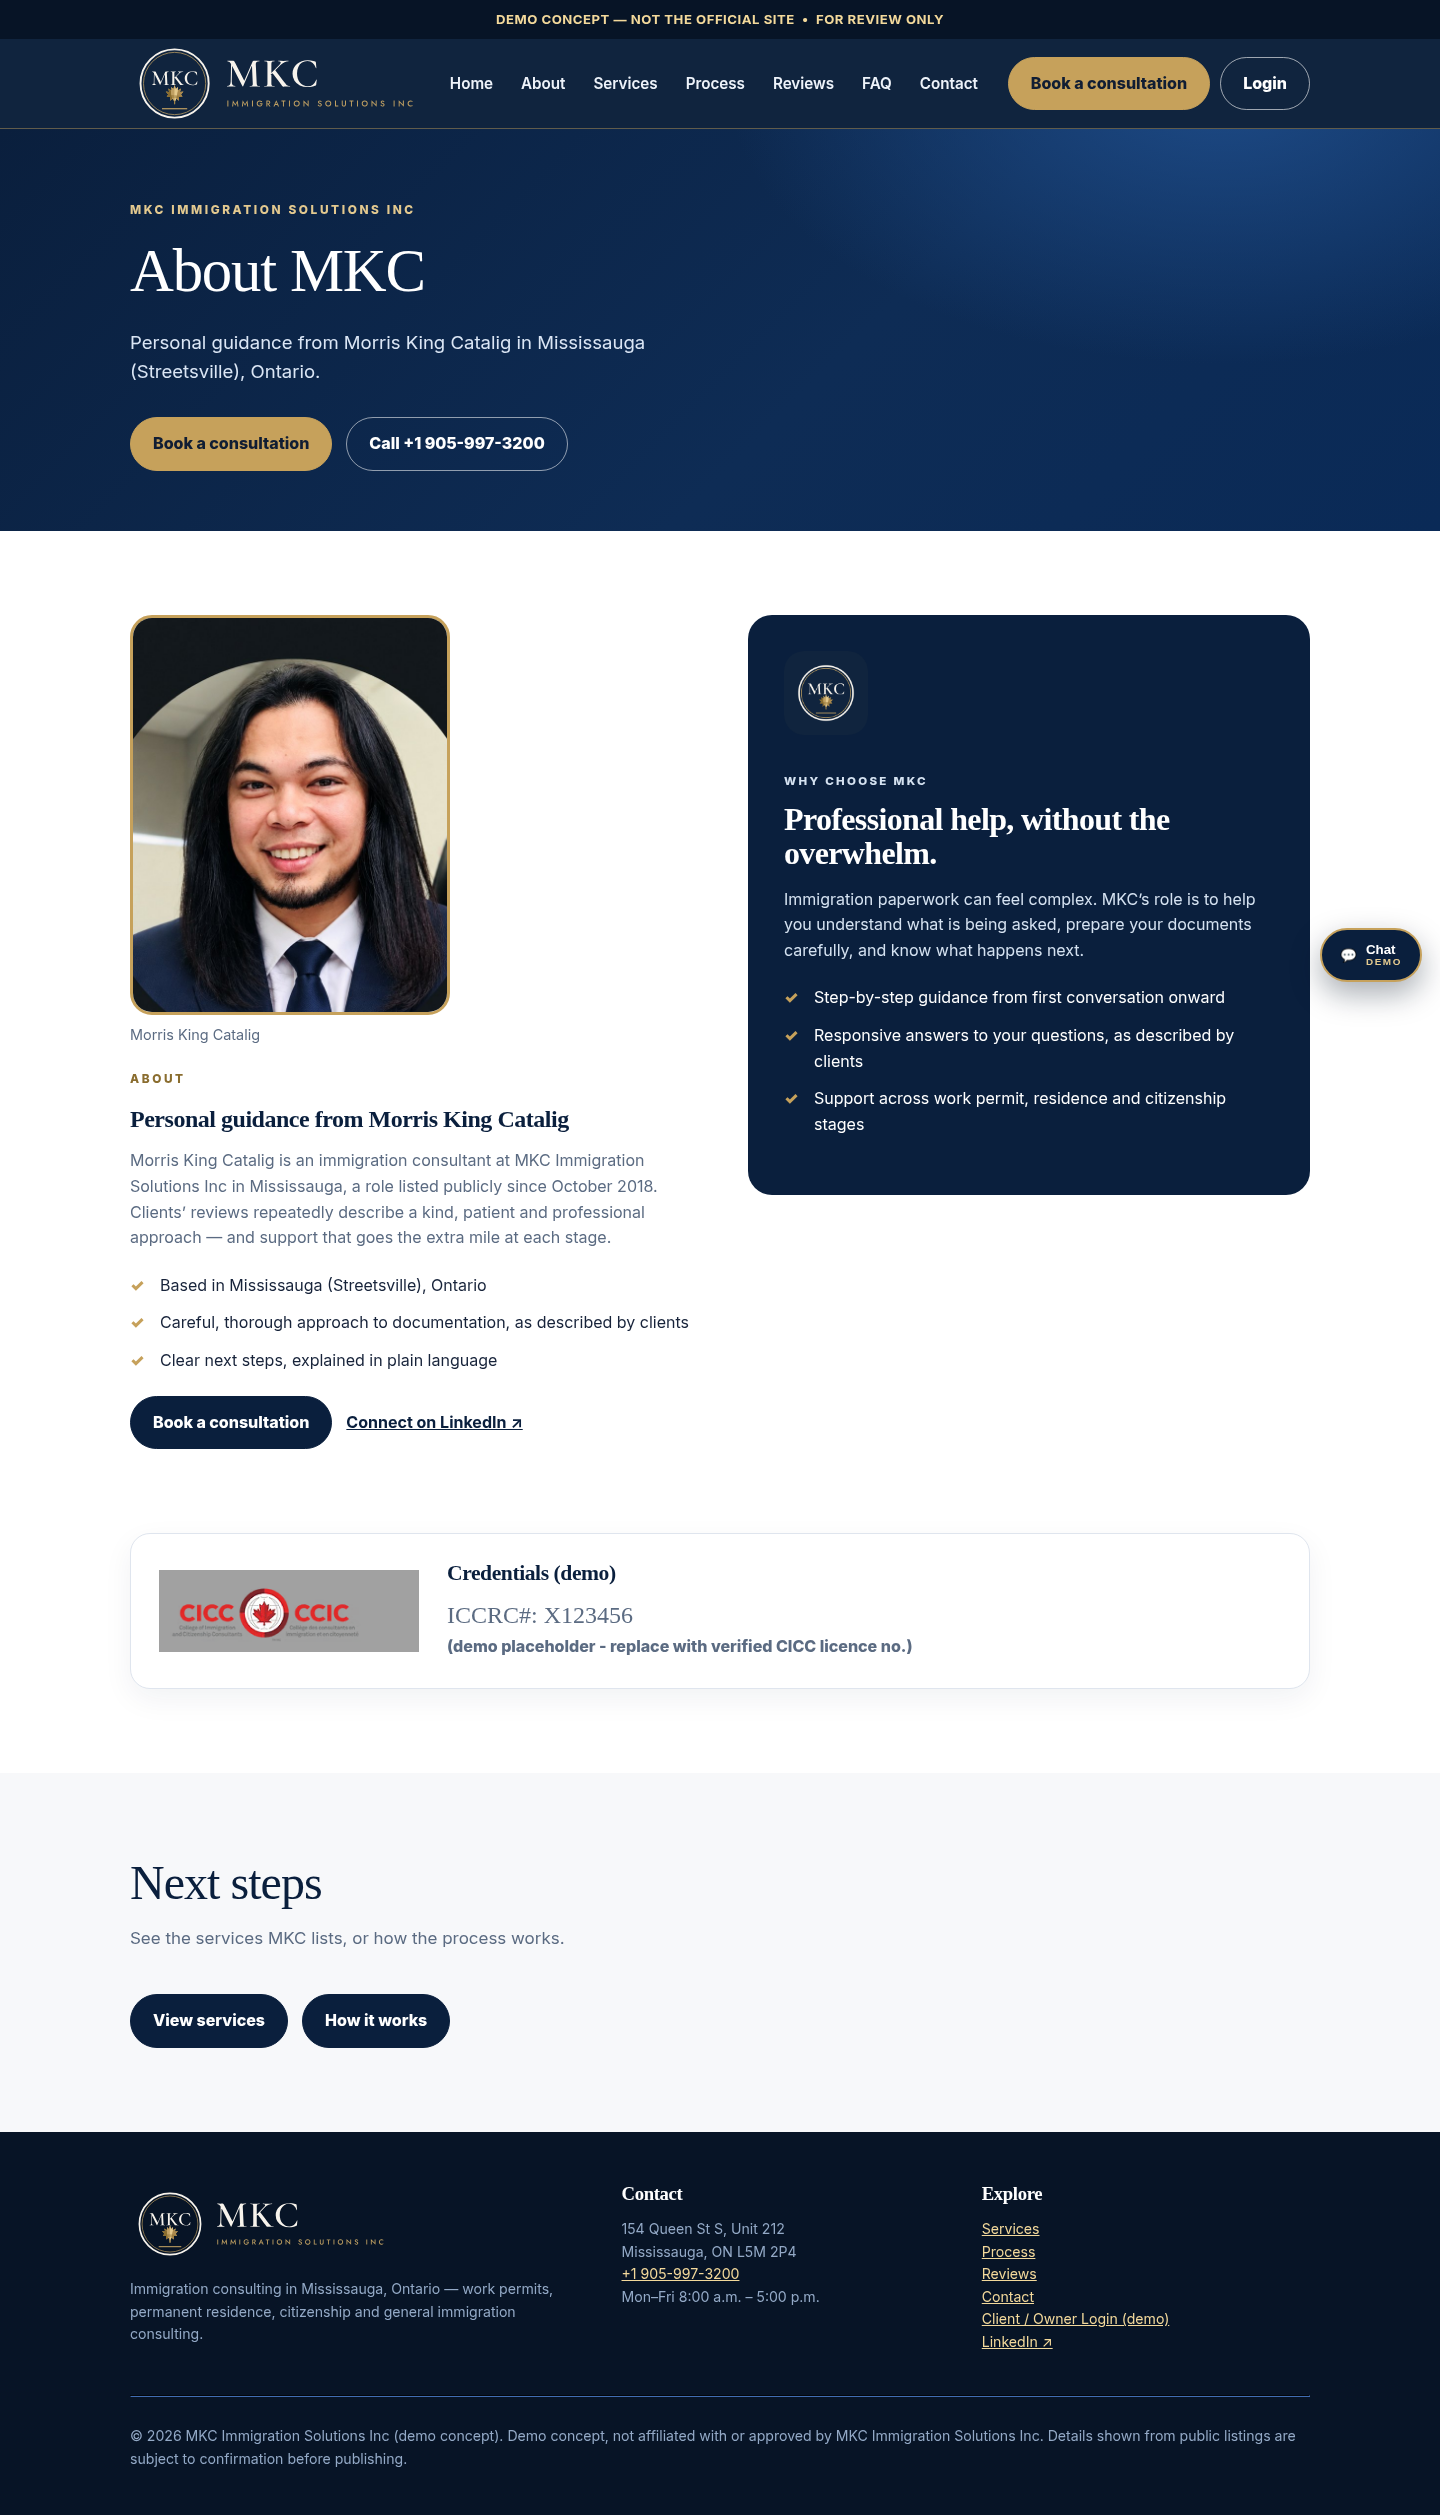
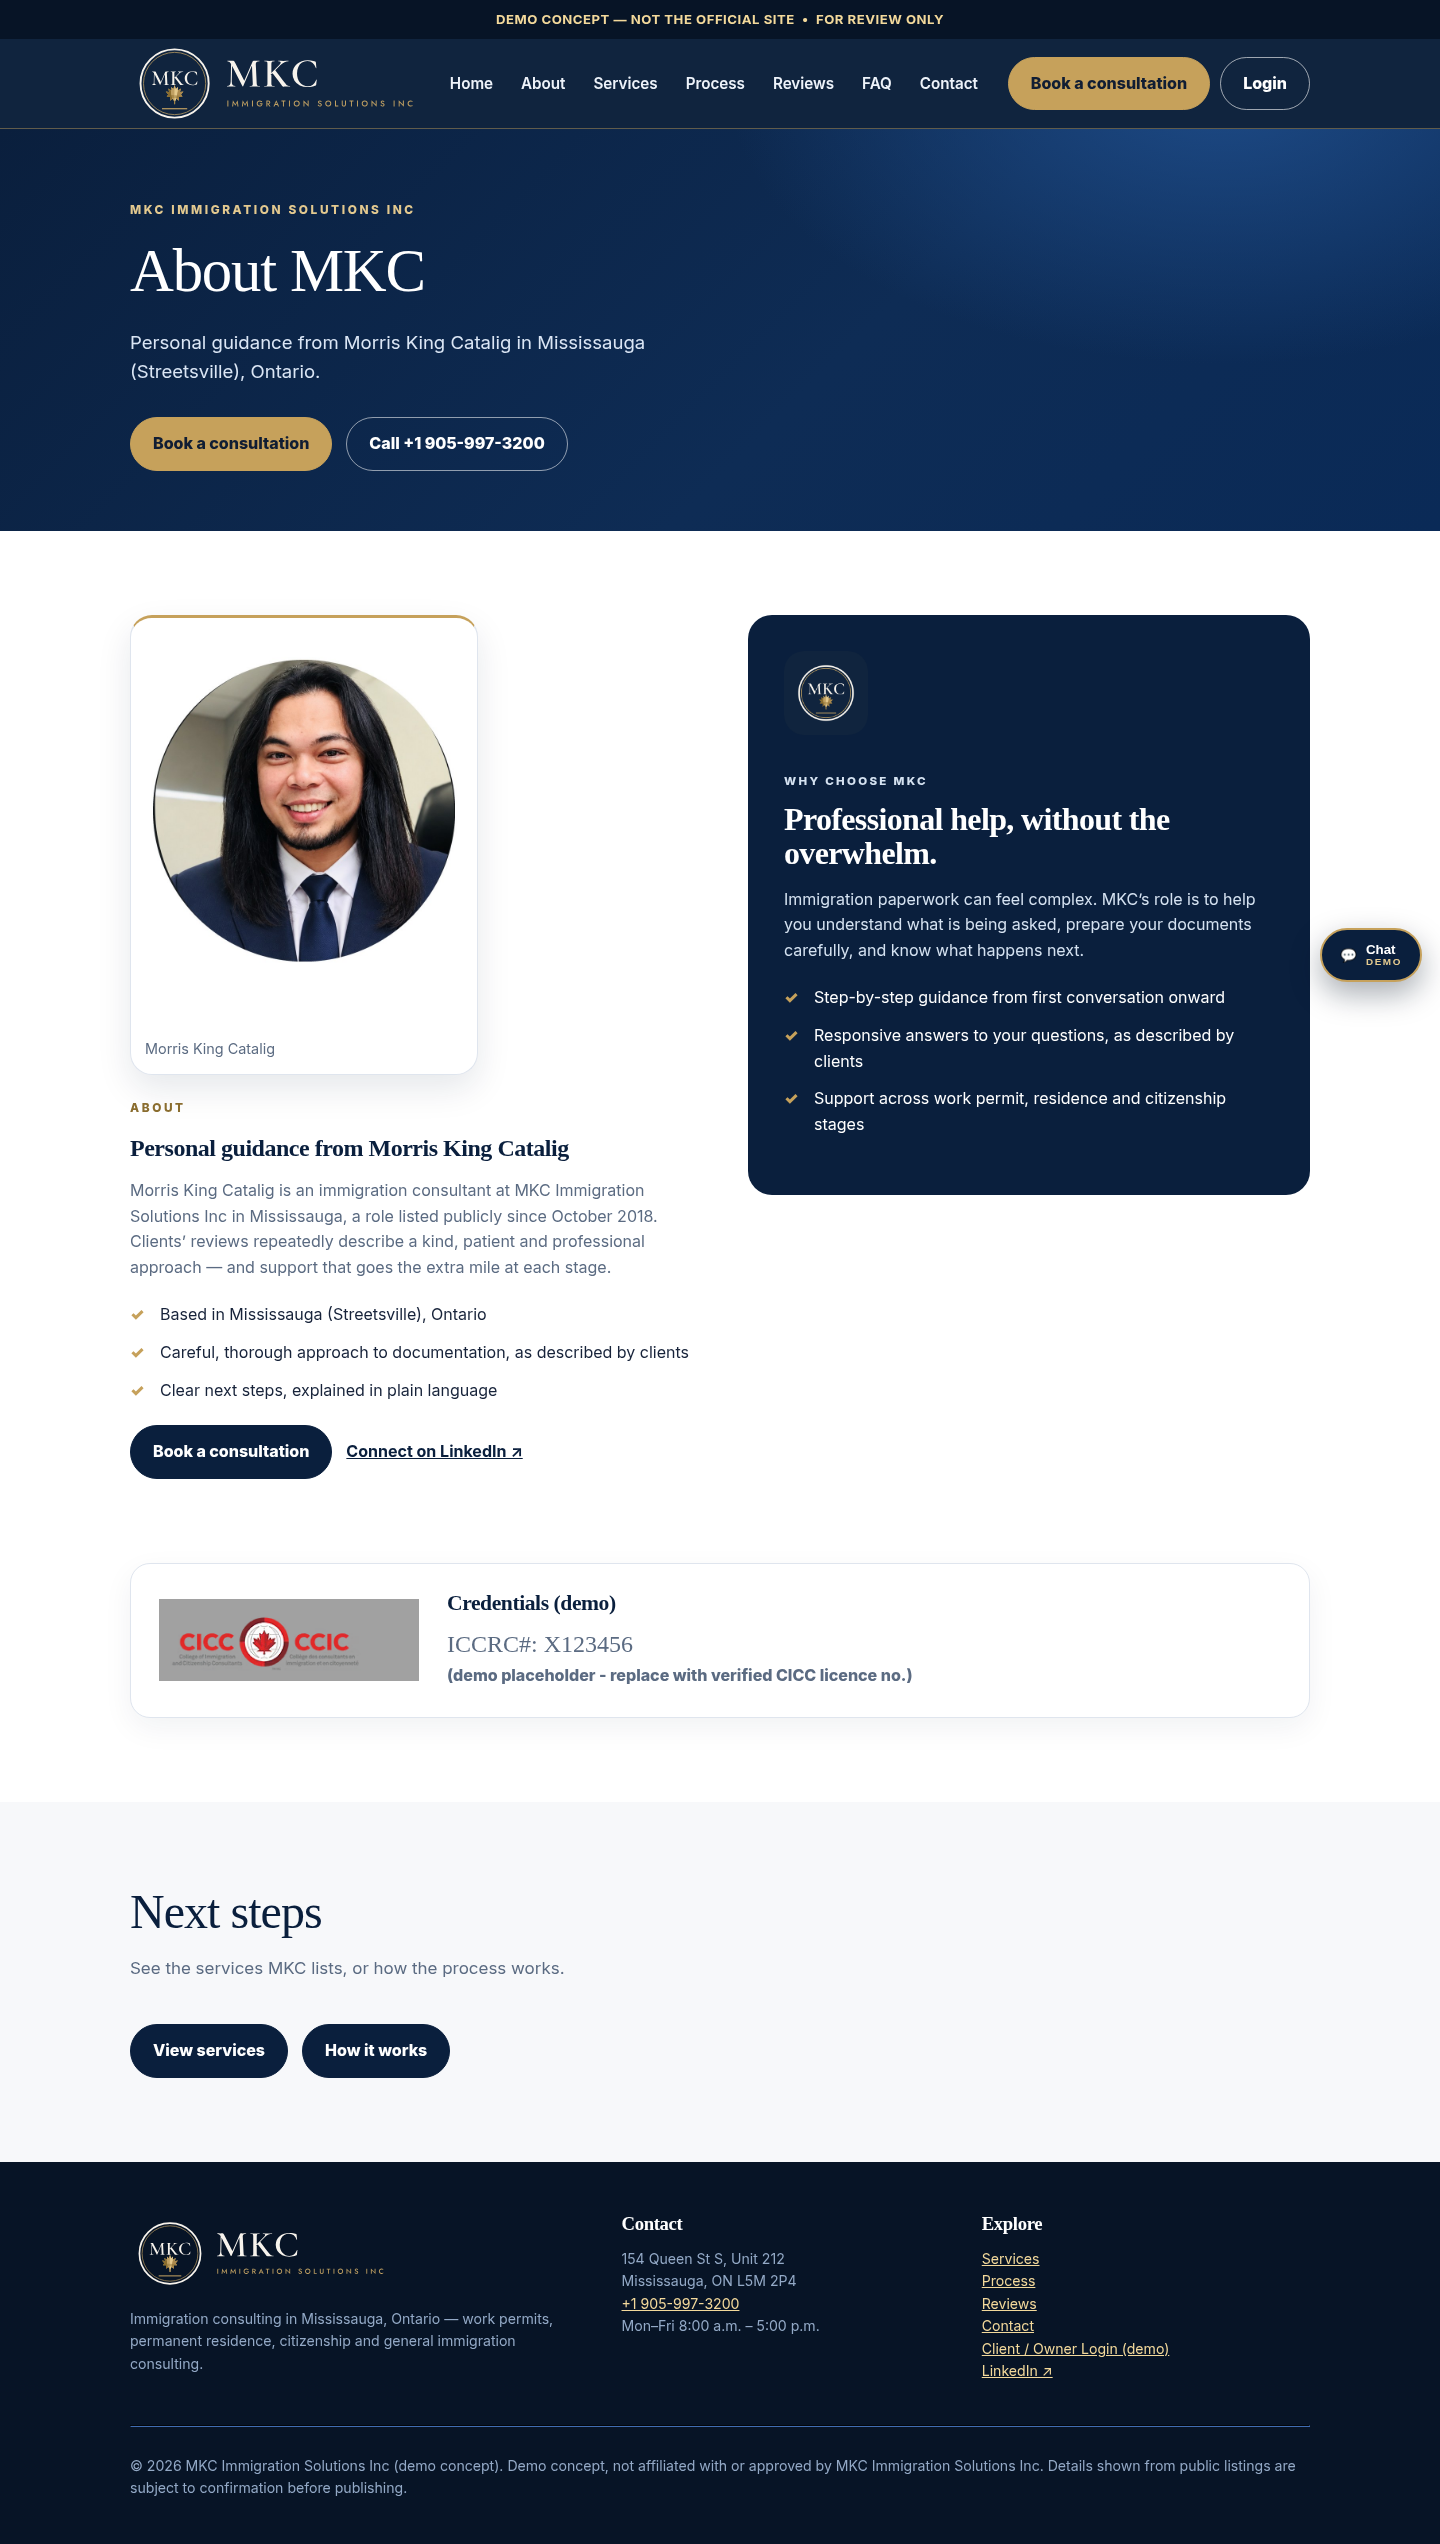
Show full Morris portrait on white frame in About

diff --git a/dist/about.html b/dist/about.html
@@ -20,7 +20,7 @@
 </div></header>
 <main id="main"><section class="page-hero"><div class="wrap"><p class="eyebrow">MKC Immigration Solutions Inc</p><h1>About MKC</h1><p class="lead">Personal guidance from Morris King Catalig in Mississauga (Streetsville), Ontario.</p><div class="cta-row"><a class="btn" href="contact.html">Book a consultation</a><a class="btn ghost" href="tel:+19059973200">Call +1 905-997-3200</a></div></div></section>
 <section><div class="wrap split"><div><!-- Portrait: AI-edited for clothing (navy suit) with John's approval via Higgsfield (1 generation, 0.25 credits, 2026-10-19); face/hair/identity from the client-supplied original. Not presented as an unedited photograph. -->
-<figure class="morris-photo"><img src="assets/morris-portrait.jpg" alt="Morris King Catalig" width="640" height="800"><figcaption class="muted" style="color:var(--muted);font-size:.9rem;margin-top:8px">Morris King Catalig</figcaption></figure><p class="eyebrow" style="color:#8a6d2f">About</p><h2>Personal guidance from Morris King Catalig</h2><p style="color:var(--muted)">Morris King Catalig is an immigration consultant at MKC Immigration Solutions Inc in Mississauga, a role listed publicly since October 2018. Clients’ reviews repeatedly describe a kind, patient and professional approach — and support that goes the extra mile at each stage.</p><ul class="check"><li>Based in Mississauga (Streetsville), Ontario</li><li>Careful, thorough approach to documentation, as described by clients</li><li>Clear next steps, explained in plain language</li></ul><div class="cta-row"><a class="btn navy" href="contact.html">Book a consultation</a><a href="https://linkedin.com/in/morris-king-catalig-rcic-907a42108" target="_blank" rel="noopener" style="align-self:center;font-weight:700">Connect on LinkedIn ↗</a></div></div>
+<figure class="morris-photo"><img src="assets/morris-portrait.jpg" alt="Morris King Catalig" width="800" height="1000"><figcaption class="muted" style="color:var(--muted);font-size:.9rem;margin-top:8px">Morris King Catalig</figcaption></figure><p class="eyebrow" style="color:#8a6d2f">About</p><h2>Personal guidance from Morris King Catalig</h2><p style="color:var(--muted)">Morris King Catalig is an immigration consultant at MKC Immigration Solutions Inc in Mississauga, a role listed publicly since October 2018. Clients’ reviews repeatedly describe a kind, patient and professional approach — and support that goes the extra mile at each stage.</p><ul class="check"><li>Based in Mississauga (Streetsville), Ontario</li><li>Careful, thorough approach to documentation, as described by clients</li><li>Clear next steps, explained in plain language</li></ul><div class="cta-row"><a class="btn navy" href="contact.html">Book a consultation</a><a href="https://linkedin.com/in/morris-king-catalig-rcic-907a42108" target="_blank" rel="noopener" style="align-self:center;font-weight:700">Connect on LinkedIn ↗</a></div></div>
 <div class="about-card"><img class="about-mark" src="assets/logo-app-icon-512.png" alt="MKC Immigration Solutions Inc" width="84" height="84"><p class="card-kicker">Why choose MKC</p><h3>Professional help, without the overwhelm.</h3><p>Immigration paperwork can feel complex. MKC’s role is to help you understand what is being asked, prepare your documents carefully, and know what happens next.</p><ul class="check"><li>Step-by-step guidance from first conversation onward</li><li>Responsive answers to your questions, as described by clients</li><li>Support across work permit, residence and citizenship stages</li></ul></div></div></section>
 <section style="padding-top:0"><div class="wrap"><div class="card credentials-card">
 <!-- DEMO PLACEHOLDER: The ICCRC number below is a demo placeholder supplied for this draft. It is NOT verified. Do not present it as a verified licence/registration until Morris provides his verified CICC licence number and it is checked on the CICC Public Register. No 'licensed' claim is made by this block. -->

diff --git a/site/about.html b/site/about.html
@@ -20,7 +20,7 @@
 </div></header>
 <main id="main"><section class="page-hero"><div class="wrap"><p class="eyebrow">MKC Immigration Solutions Inc</p><h1>About MKC</h1><p class="lead">Personal guidance from Morris King Catalig in Mississauga (Streetsville), Ontario.</p><div class="cta-row"><a class="btn" href="contact.html">Book a consultation</a><a class="btn ghost" href="tel:+19059973200">Call +1 905-997-3200</a></div></div></section>
 <section><div class="wrap split"><div><!-- Portrait: AI-edited for clothing (navy suit) with John's approval via Higgsfield (1 generation, 0.25 credits, 2026-10-19); face/hair/identity from the client-supplied original. Not presented as an unedited photograph. -->
-<figure class="morris-photo"><img src="assets/morris-portrait.jpg" alt="Morris King Catalig" width="640" height="800"><figcaption class="muted" style="color:var(--muted);font-size:.9rem;margin-top:8px">Morris King Catalig</figcaption></figure><p class="eyebrow" style="color:#8a6d2f">About</p><h2>Personal guidance from Morris King Catalig</h2><p style="color:var(--muted)">Morris King Catalig is an immigration consultant at MKC Immigration Solutions Inc in Mississauga, a role listed publicly since October 2018. Clients’ reviews repeatedly describe a kind, patient and professional approach — and support that goes the extra mile at each stage.</p><ul class="check"><li>Based in Mississauga (Streetsville), Ontario</li><li>Careful, thorough approach to documentation, as described by clients</li><li>Clear next steps, explained in plain language</li></ul><div class="cta-row"><a class="btn navy" href="contact.html">Book a consultation</a><a href="https://linkedin.com/in/morris-king-catalig-rcic-907a42108" target="_blank" rel="noopener" style="align-self:center;font-weight:700">Connect on LinkedIn ↗</a></div></div>
+<figure class="morris-photo"><img src="assets/morris-portrait.jpg" alt="Morris King Catalig" width="800" height="1000"><figcaption class="muted" style="color:var(--muted);font-size:.9rem;margin-top:8px">Morris King Catalig</figcaption></figure><p class="eyebrow" style="color:#8a6d2f">About</p><h2>Personal guidance from Morris King Catalig</h2><p style="color:var(--muted)">Morris King Catalig is an immigration consultant at MKC Immigration Solutions Inc in Mississauga, a role listed publicly since October 2018. Clients’ reviews repeatedly describe a kind, patient and professional approach — and support that goes the extra mile at each stage.</p><ul class="check"><li>Based in Mississauga (Streetsville), Ontario</li><li>Careful, thorough approach to documentation, as described by clients</li><li>Clear next steps, explained in plain language</li></ul><div class="cta-row"><a class="btn navy" href="contact.html">Book a consultation</a><a href="https://linkedin.com/in/morris-king-catalig-rcic-907a42108" target="_blank" rel="noopener" style="align-self:center;font-weight:700">Connect on LinkedIn ↗</a></div></div>
 <div class="about-card"><img class="about-mark" src="assets/logo-app-icon-512.png" alt="MKC Immigration Solutions Inc" width="84" height="84"><p class="card-kicker">Why choose MKC</p><h3>Professional help, without the overwhelm.</h3><p>Immigration paperwork can feel complex. MKC’s role is to help you understand what is being asked, prepare your documents carefully, and know what happens next.</p><ul class="check"><li>Step-by-step guidance from first conversation onward</li><li>Responsive answers to your questions, as described by clients</li><li>Support across work permit, residence and citizenship stages</li></ul></div></div></section>
 <section style="padding-top:0"><div class="wrap"><div class="card credentials-card">
 <!-- DEMO PLACEHOLDER: The ICCRC number below is a demo placeholder supplied for this draft. It is NOT verified. Do not present it as a verified licence/registration until Morris provides his verified CICC licence number and it is checked on the CICC Public Register. No 'licensed' claim is made by this block. -->

diff --git a/dist/assets/style.css b/dist/assets/style.css
@@ -62,7 +62,7 @@ footer{background:#071426;color:#c8d7ec;padding:52px 0 30px}footer a{color:#f3d9
 @media(max-width:1020px){nav ul{gap:18px}}
 @media(max-width:900px){.menu-toggle{display:block}.nav{flex-wrap:wrap;padding:10px 0}header nav{order:3;width:100%}#mainNav{display:none;flex-direction:column;gap:4px;padding:10px 0}#mainNav.open{display:flex}#mainNav a{display:block;padding:10px 0}.nav-actions .btn{padding:10px 14px;font-size:.88rem}}
 
-.morris-photo{margin:0 0 24px}.morris-photo img{width:min(320px,100%);height:auto;aspect-ratio:4/5;object-fit:cover;border-radius:22px;border:3px solid var(--gold);display:block}
+.morris-photo{margin:0 0 24px;background:#fff;padding:14px;border:1px solid var(--line);border-top:3px solid var(--gold);border-radius:22px;box-shadow:0 14px 34px rgba(10,31,61,.10);width:min(348px,100%)}.morris-photo img{width:100%;height:auto;aspect-ratio:4/5;object-fit:contain;border-radius:12px;display:block;background:#fff}
 .credentials-card{display:flex;gap:28px;align-items:center;flex-wrap:wrap}
 .cicc-logo{width:260px;max-width:100%;height:auto;background:#fff}
 .cred-number{font-family:Georgia,serif;font-size:1.5rem;color:var(--navy);margin:4px 0}

diff --git a/site/assets/style.css b/site/assets/style.css
@@ -62,7 +62,7 @@ footer{background:#071426;color:#c8d7ec;padding:52px 0 30px}footer a{color:#f3d9
 @media(max-width:1020px){nav ul{gap:18px}}
 @media(max-width:900px){.menu-toggle{display:block}.nav{flex-wrap:wrap;padding:10px 0}header nav{order:3;width:100%}#mainNav{display:none;flex-direction:column;gap:4px;padding:10px 0}#mainNav.open{display:flex}#mainNav a{display:block;padding:10px 0}.nav-actions .btn{padding:10px 14px;font-size:.88rem}}
 
-.morris-photo{margin:0 0 24px}.morris-photo img{width:min(320px,100%);height:auto;aspect-ratio:4/5;object-fit:cover;border-radius:22px;border:3px solid var(--gold);display:block}
+.morris-photo{margin:0 0 24px;background:#fff;padding:14px;border:1px solid var(--line);border-top:3px solid var(--gold);border-radius:22px;box-shadow:0 14px 34px rgba(10,31,61,.10);width:min(348px,100%)}.morris-photo img{width:100%;height:auto;aspect-ratio:4/5;object-fit:contain;border-radius:12px;display:block;background:#fff}
 .credentials-card{display:flex;gap:28px;align-items:center;flex-wrap:wrap}
 .cicc-logo{width:260px;max-width:100%;height:auto;background:#fff}
 .cred-number{font-family:Georgia,serif;font-size:1.5rem;color:var(--navy);margin:4px 0}
